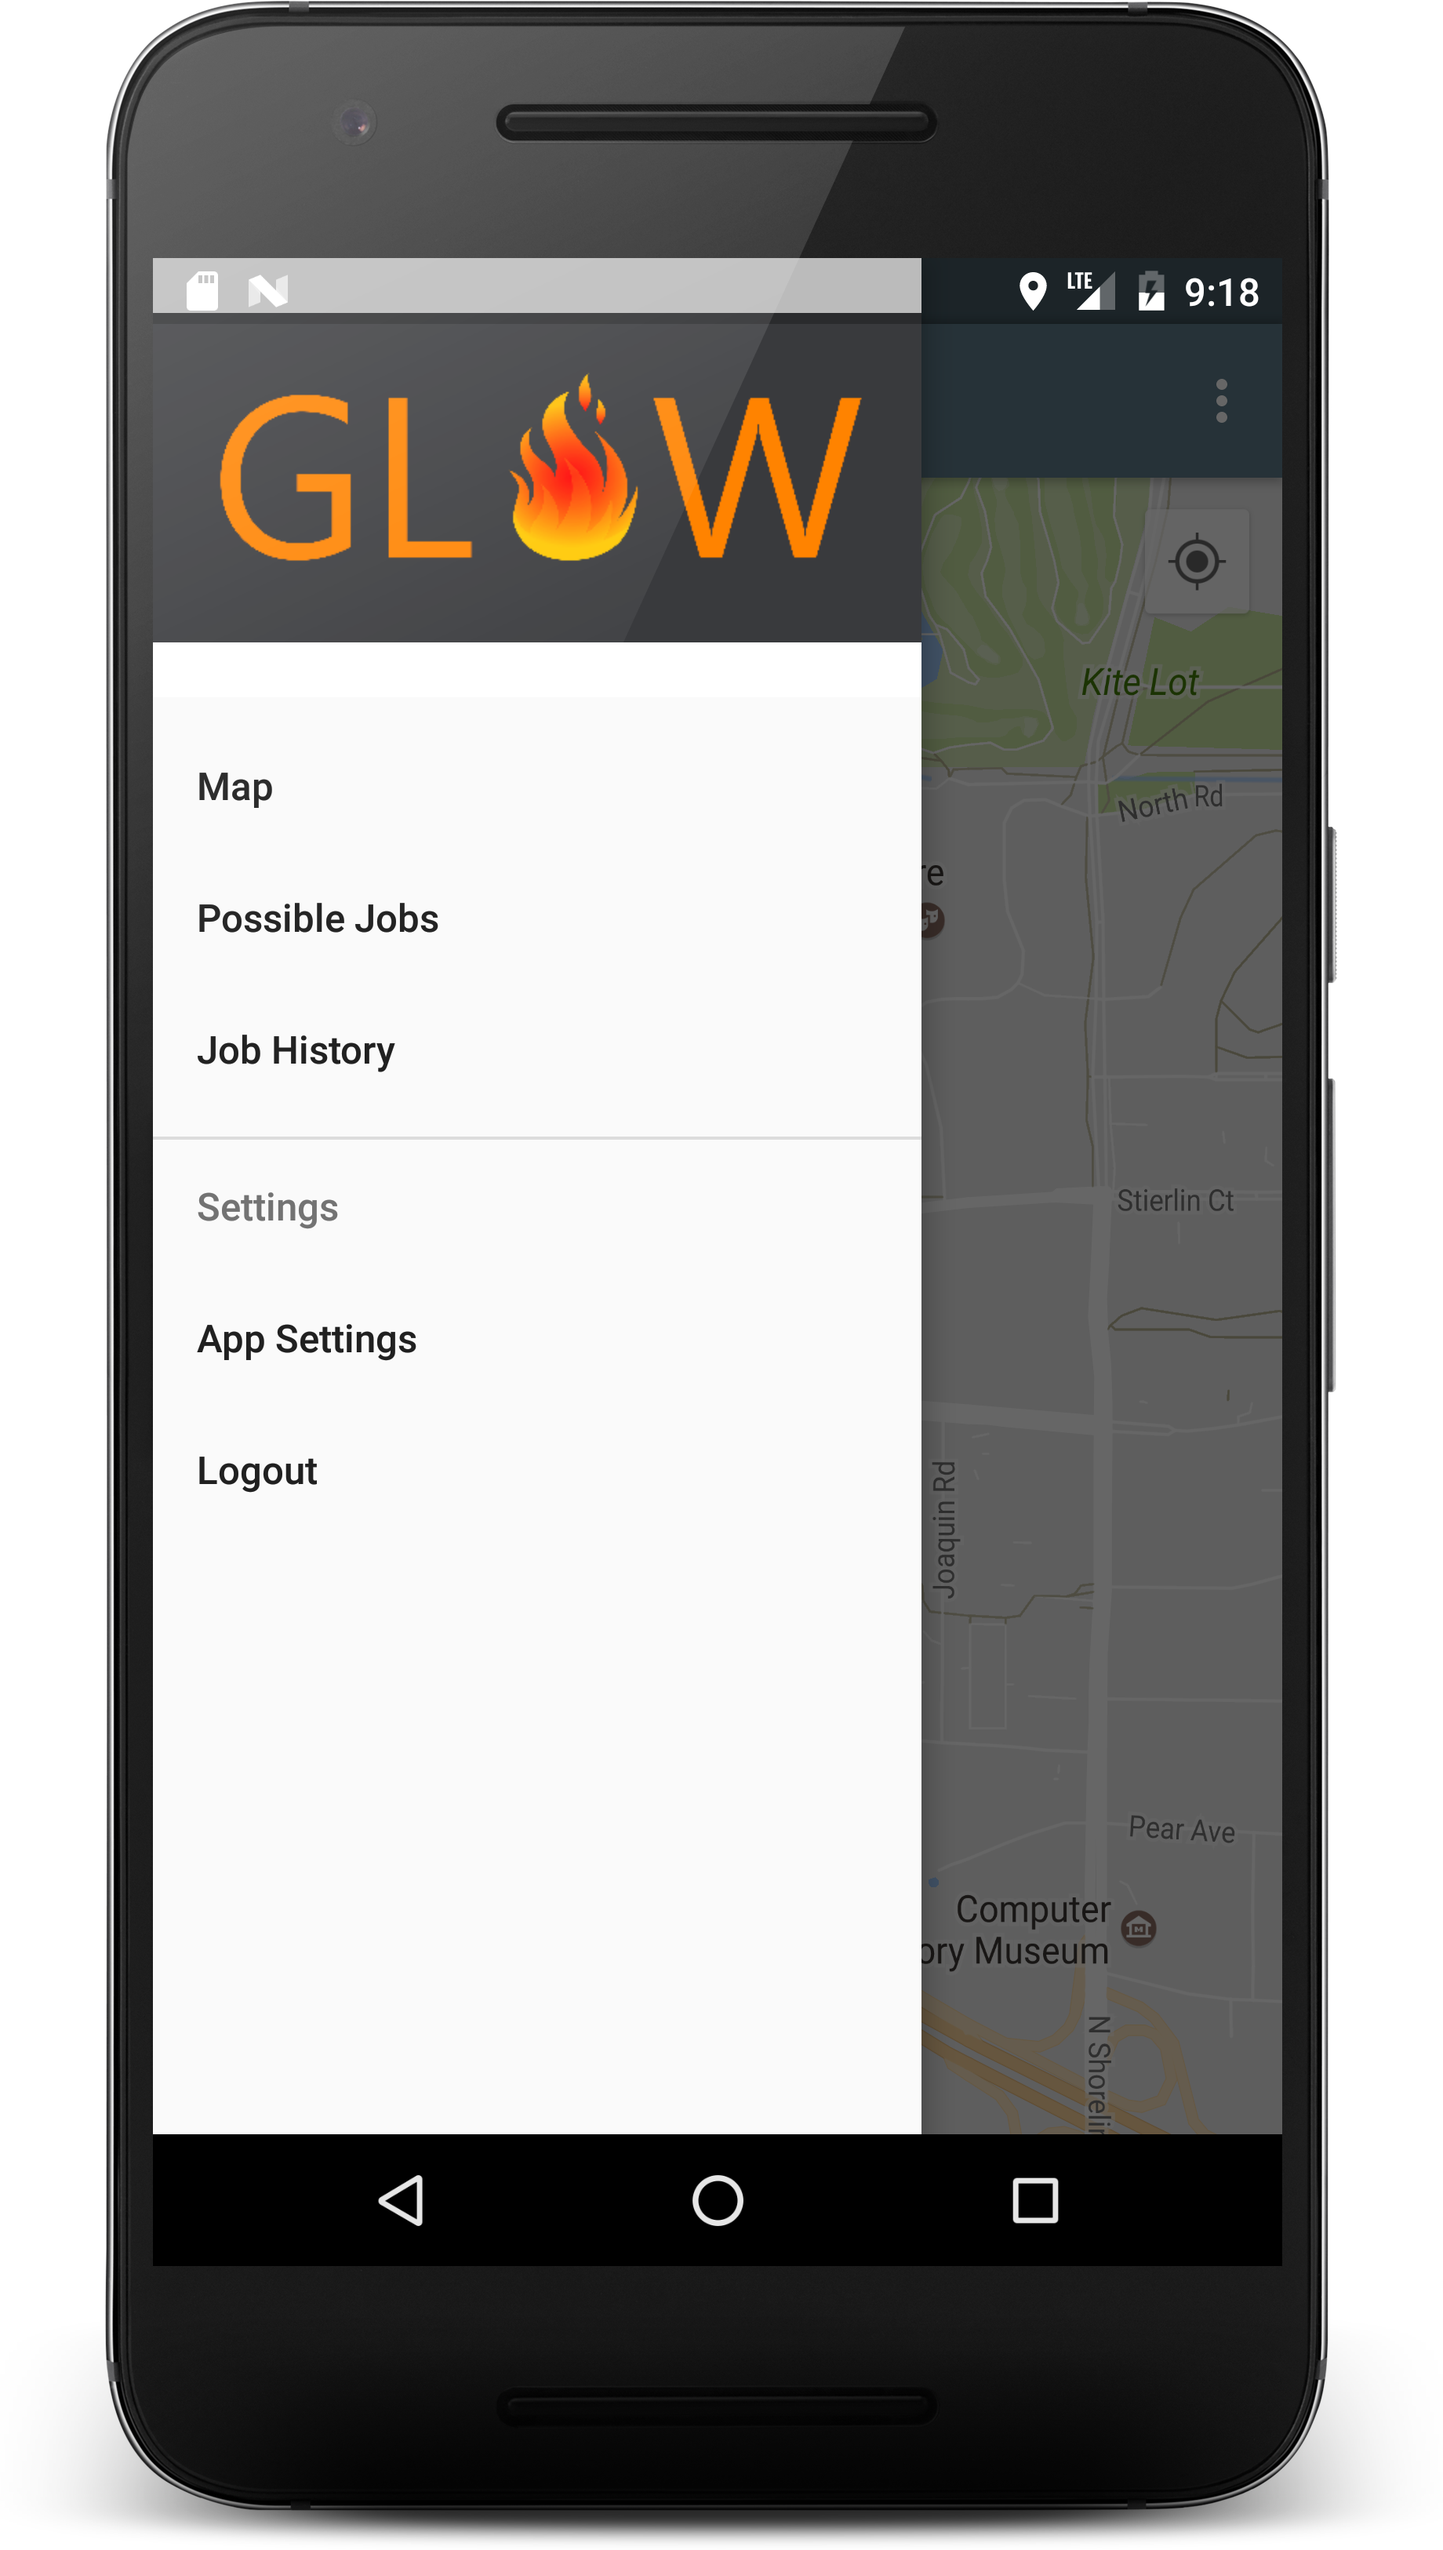
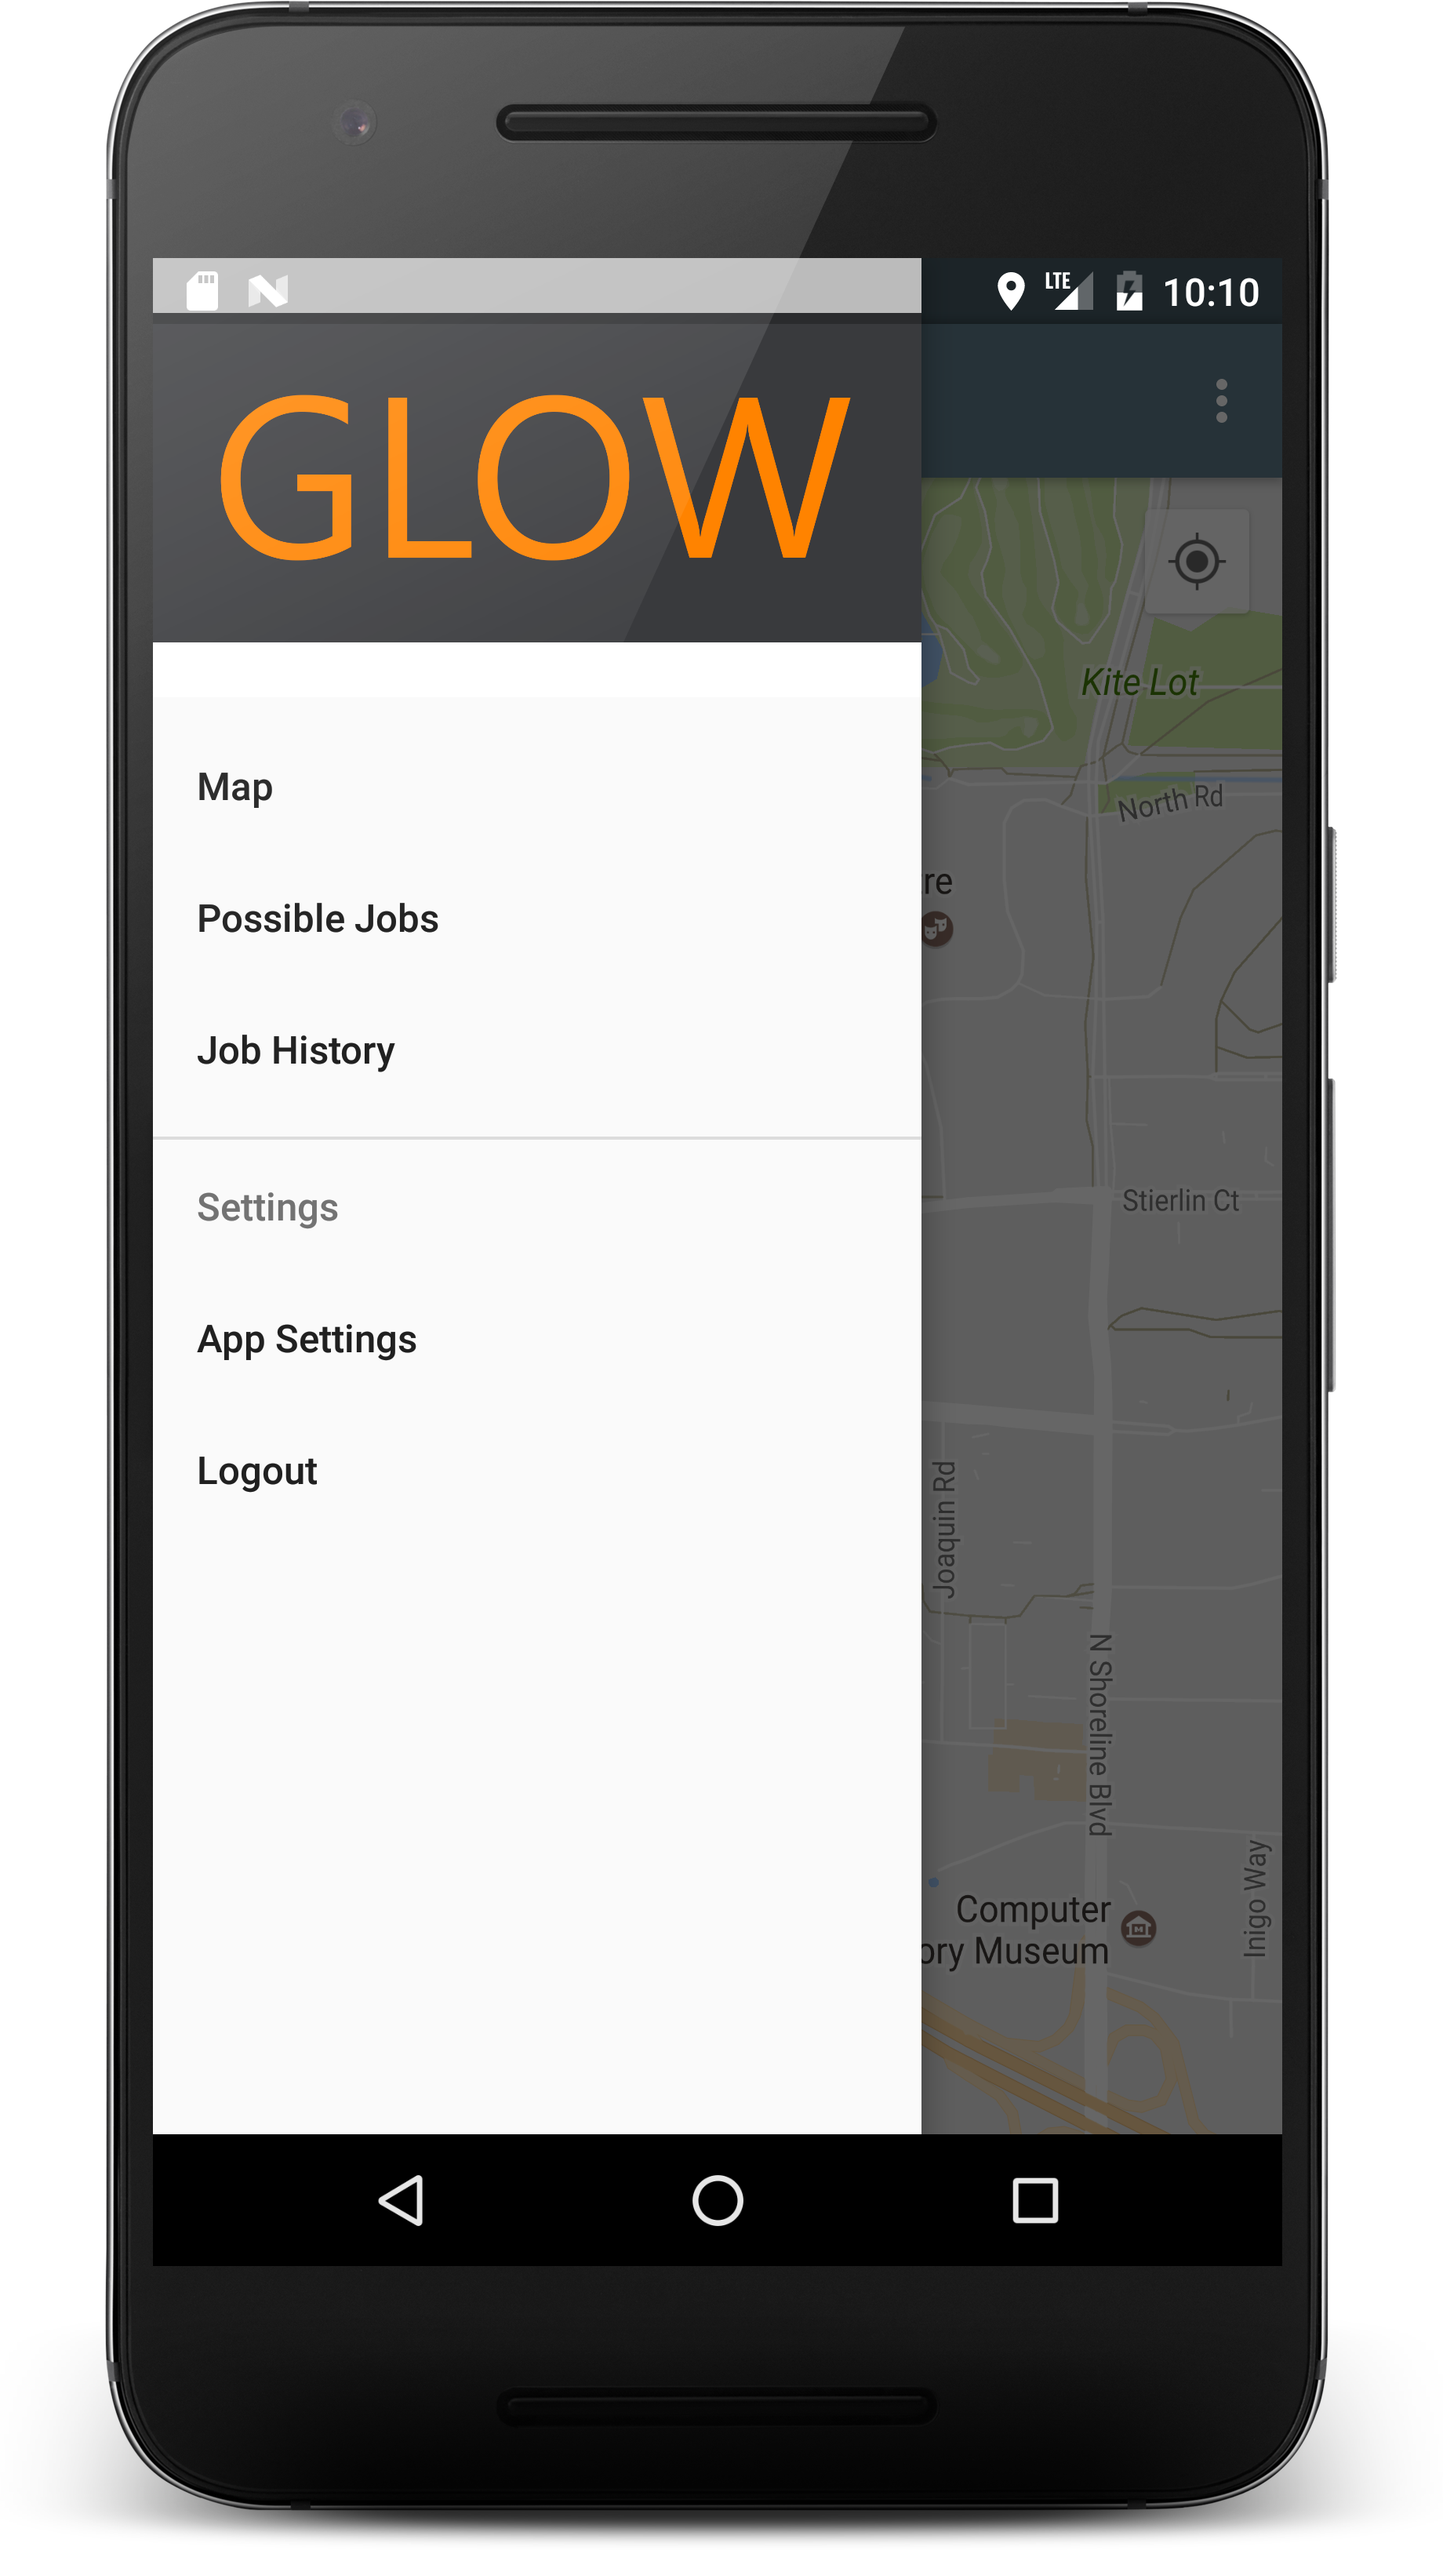
switched out image files in directories for android and web

diff --git a/transparent.m b/transparent.m
@@ -1,4 +1,4 @@
-I = imread('OilAndGas-PossibleLogov2.png');
+I = imread('OilAndGas-PossibleLogov3.png');
 figure, image(I);
 %57, 58, 61
 R = I(:,:,1);
